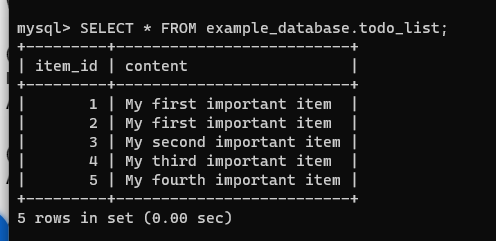
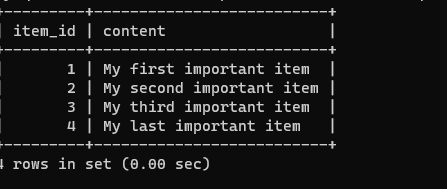
last work on project2

Changed region(s): [[0.0, 0.0, 0.9016, 1.0]]

diff --git a/Project2.md b/Project2.md
@@ -19,7 +19,7 @@
 `sudo nginx -t`
 ![nginx](./images/Nginx.png)
 `sudo systemctl reload nginx`
-`sudo echo 'Hello LEMP from hostname' $(curl -s http://54.162.76.18/latest/meta-data/public-hostname) 'with public IP' $(curl -s http://54.162.76.18/latest/meta-data/public-ipv4) > /var/www/projectLEMP/index.html`
+`sudo echo 'Hello LEMP from hostname' $(curl -s http://169.254.169.254/latest/meta-data/public-hostname) 'with public IP' $(curl -s http://169.254.169.254/latest/meta-data/public-ipv4) > /var/www/projectLEMP/index.html`
 
 `http://54.162.76.18:80`
 ![Nginx-working](./images/Nginx-working.png)
@@ -44,4 +44,26 @@
 `mysql> INSERT INTO example_database.todo_list (content) VALUES ("My first important item");`
 `mysql>  SELECT * FROM example_database.todo_list;`
 ![todo_list](./images/todo_list.png)
+
+`nano /var/www/projectLEMP/todo_list.php`
+`<?php
+$user = "example_user";
+$password = "password";
+$database = "example_database";
+$table = "todo_list";
+
+try {
+  $db = new PDO("mysql:host=localhost;dbname=$database", $user, $password);
+  echo "<h2>TODO</h2><ol>";
+  foreach($db->query("SELECT content FROM $table") as $row) {
+    echo "<li>" . $row['content'] . "</li>";
+  }
+  echo "</ol>";
+} catch (PDOException $e) {
+    print "Error!: " . $e->getMessage() . "<br/>";
+    die();
+}`
+
+`http://54.92.223.12>/todo_list.php`
+![todo_list.php](./images/todo_list.php.png)`
 
